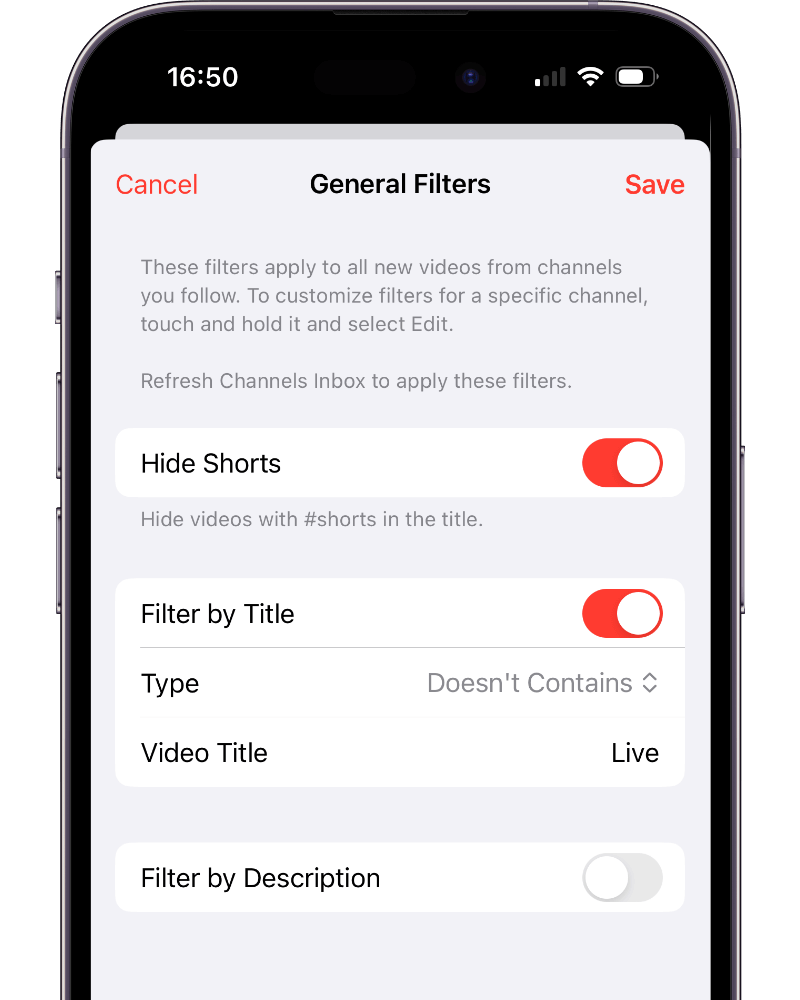
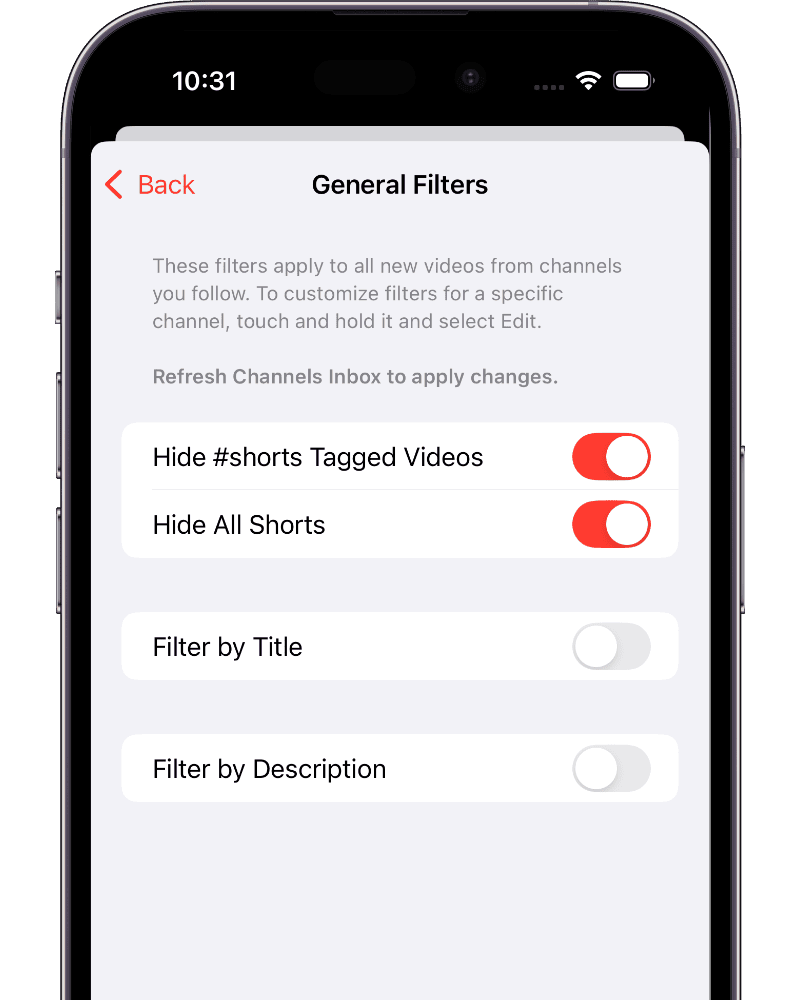
Play

diff --git a/whats-new/play.html b/whats-new/play.html
@@ -39,7 +39,21 @@
                         <div class="columns">
                         	<div class="column is-9 is-offset-1">
 
-                                <p class="title is-3" id="2.4.0">Version 2.4.0</p>
+                                <p class="title is-3" id="2.4.0">Version 2.4.1</p>
+                                <p><em>Released January X, 2025</em></p>
+                                <div class="content">
+                                    <ul>
+                                        <li>Channels Inbox can now hide all shorts, including those without <em>#shorts</em> in the title. Go to <em>Settings → Channels Inbox → General Filters</em> to configure.<span class="tag is-info is-light tag-premium">PLAY PREMIUM</span></li>
+                                        <li>Improved performance when refreshing the Channels Inbox, especially for users following many channels.<span class="tag is-info is-light tag-premium">PLAY PREMIUM</span></li>
+                                        <li>You can now select a custom color for Tags using the system color picker.</li>
+                                        <li>Ability to configure the video player size on the iPad, available in <em>Settings → Video Player</em>.</li>
+                                        <li>Ability to choose if Play should remember your playback position automatically. Go to <em>Settings → Video Player</em> to configure.</li>
+                                        <li>Ability to play/pause videos using the space bar on connected keyboards.</li>
+                                        <li>Fixed an issue that prevented Play from following a channel shared through the Share Sheet from other apps.</li>
+                                    </ul>
+                                </div>
+
+                                <p class="title is-3" style="padding-top: 1em;" id="2.4.0">Version 2.4.0</p>
                                 <p><em>Released December 14, 2024</em></p>
                                 <div class="content">
                                     <ul>

diff --git a/whats-new/play-macos.html b/whats-new/play-macos.html
@@ -39,7 +39,21 @@
                         <div class="columns">
                         	<div class="column is-9 is-offset-1">
 
-                                <p class="title is-3" id="2.4.0">Version 2.4.0</p>
+                                <p class="title is-3" id="2.4.0">Version 2.4.1</p>
+                                <p><em>Released January X, 2025</em></p>
+                                <div class="content">
+                                    <ul>
+                                        <li>Channels Inbox can now hide all shorts, including those without <em>#shorts</em> in the title. Go to <em>Settings → Channels Inbox</em> to configure.<span class="tag is-info is-light tag-premium">PLAY PREMIUM</span></li>
+                                        <li>Improved performance when refreshing the Channels Inbox, especially for users following many channels.<span class="tag is-info is-light tag-premium">PLAY PREMIUM</span></li>
+                                        <li>You can now select a custom color for Tags using the system color picker.</li>
+                                        <li>Added the ability to choose if Play should remember your playback position automatically. Go to <em>Settings → Player</em> to configure.</li>
+                                        <li>Added a context menu button to copy the video URL in Channels Inbox.<span class="tag is-info is-light tag-premium">PLAY PREMIUM</span></li>
+                                        <li>Fixed an issue preventing sign-in with a YouTube account.</li>
+                                        <li>Fixed an issue preventing Play from following a channel shared through the Share Sheet from other apps.</li>
+                                    </ul>
+                                </div>
+
+                                <p class="title is-3" style="padding-top: 1em;" id="2.4.0">Version 2.4.0</p>
                                 <p><em>Released December 14, 2024</em></p>
                                 <div class="content">
                                     <ul>

diff --git a/press-kit/play/play-press-kit.html b/press-kit/play/play-press-kit.html
@@ -898,7 +898,7 @@
                                     </tbody>
                                 </table>
 
-                                <p>Play requires at least iOS/iPadOS 17, macOS Ventura, and tvOS 18.</p>
+                                <p>Play requires at least iOS/iPadOS 17, macOS Sonoma, and tvOS 18.</p>
 
                                 <br>
                                 
